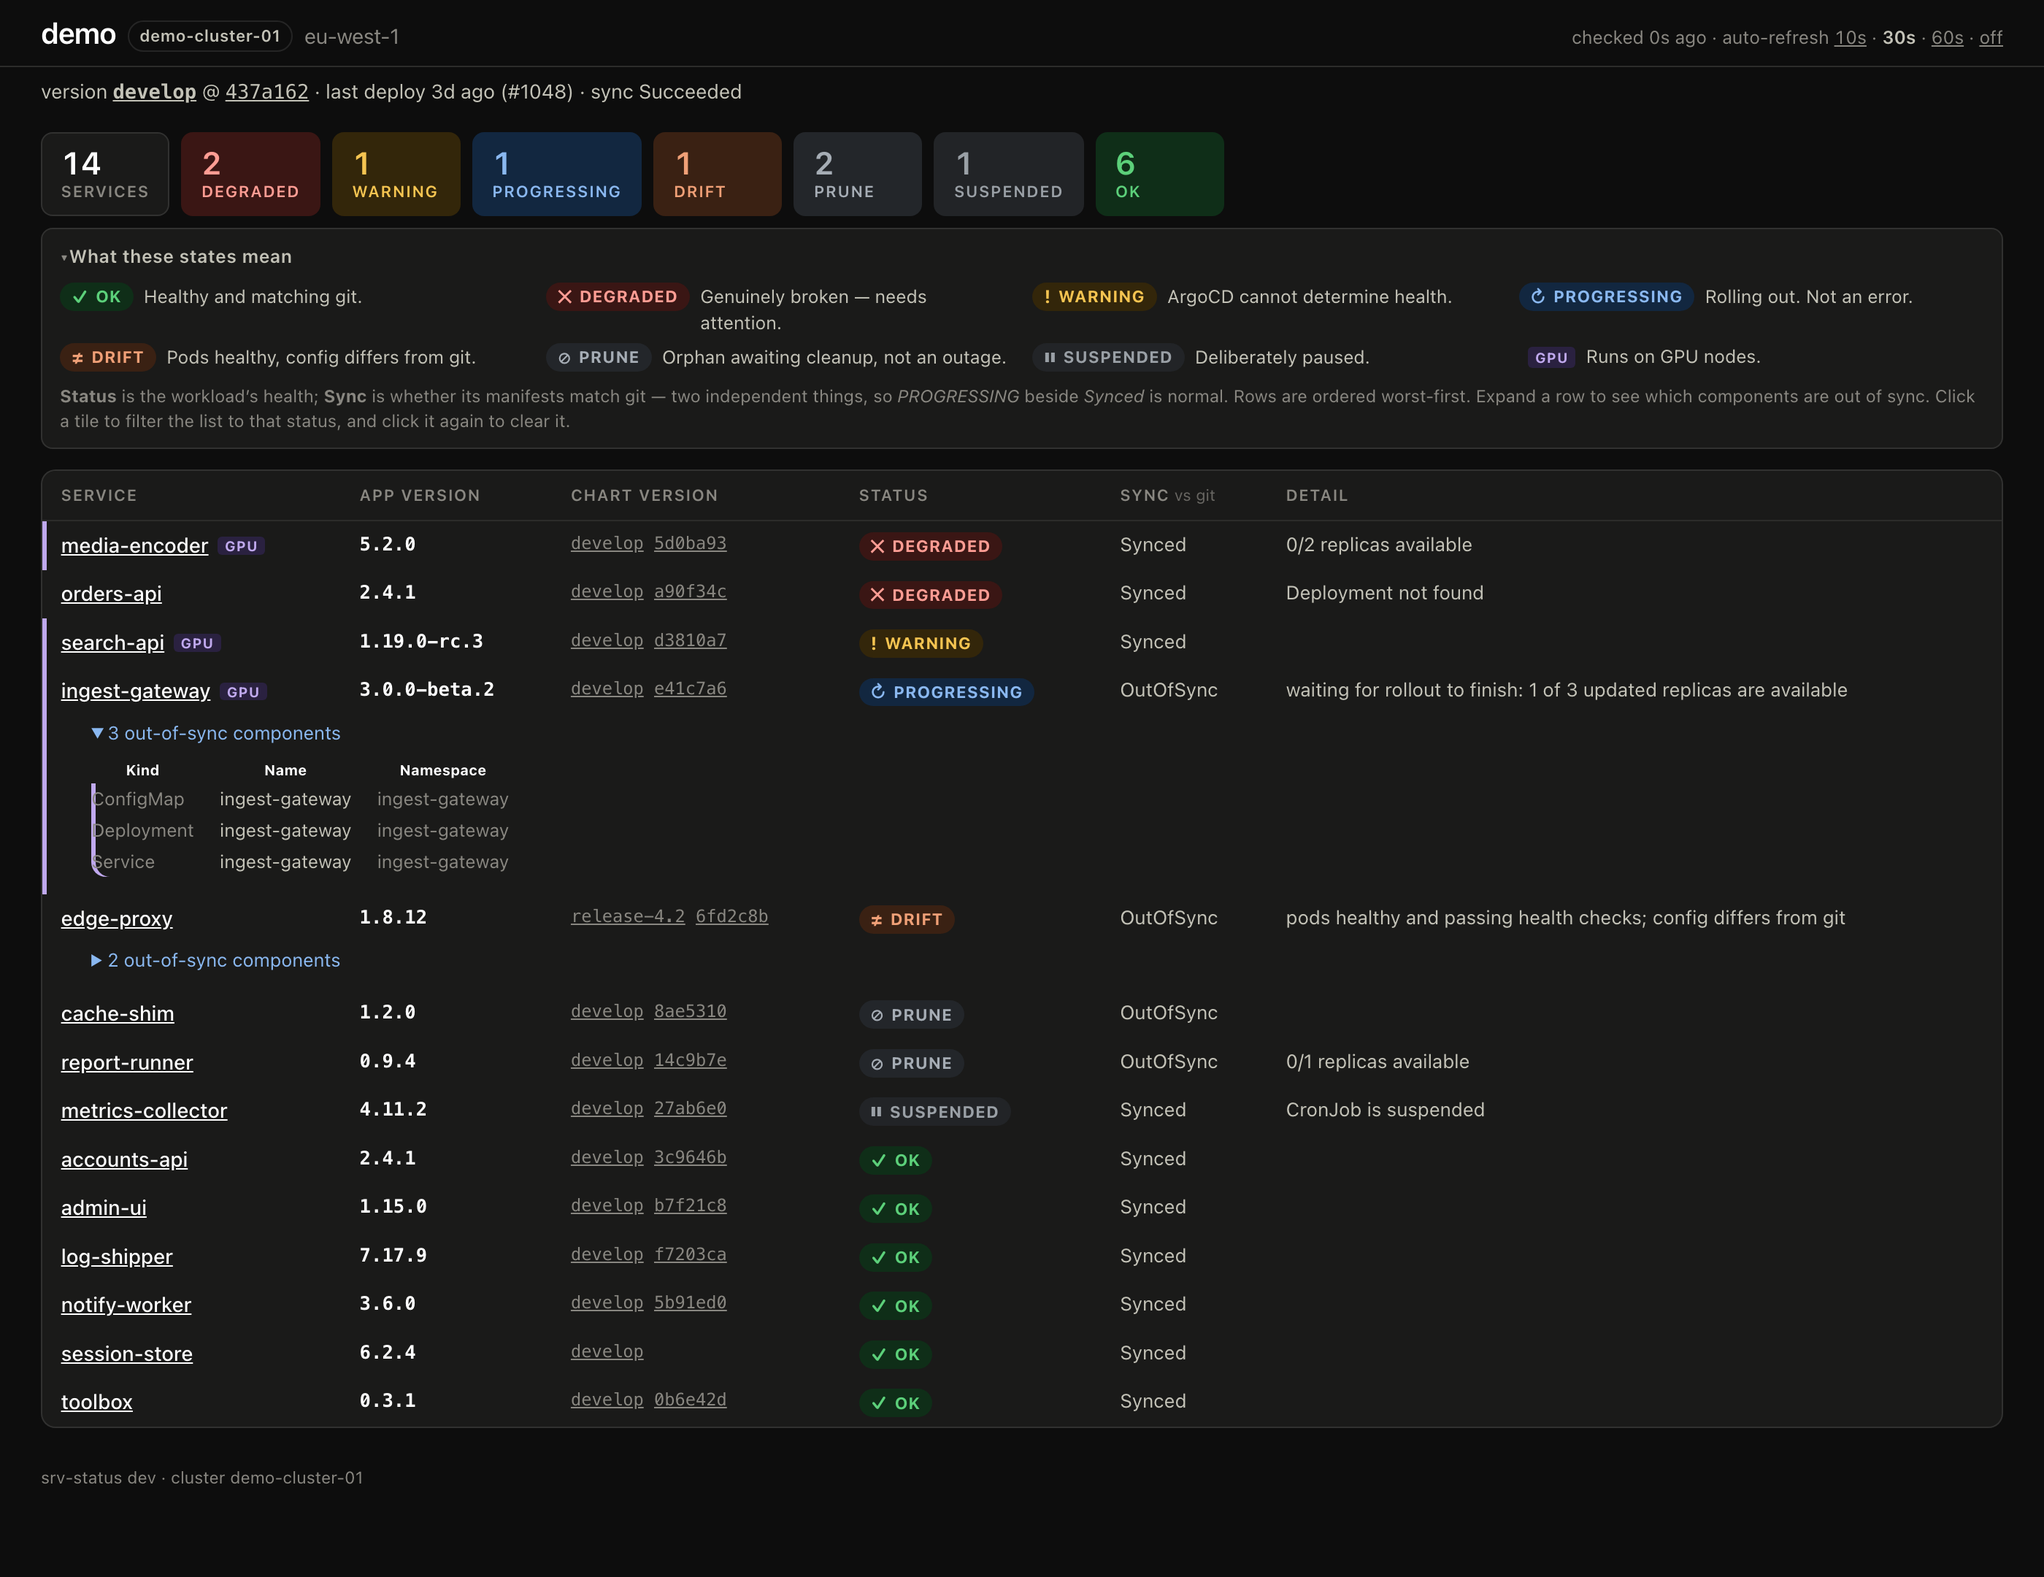
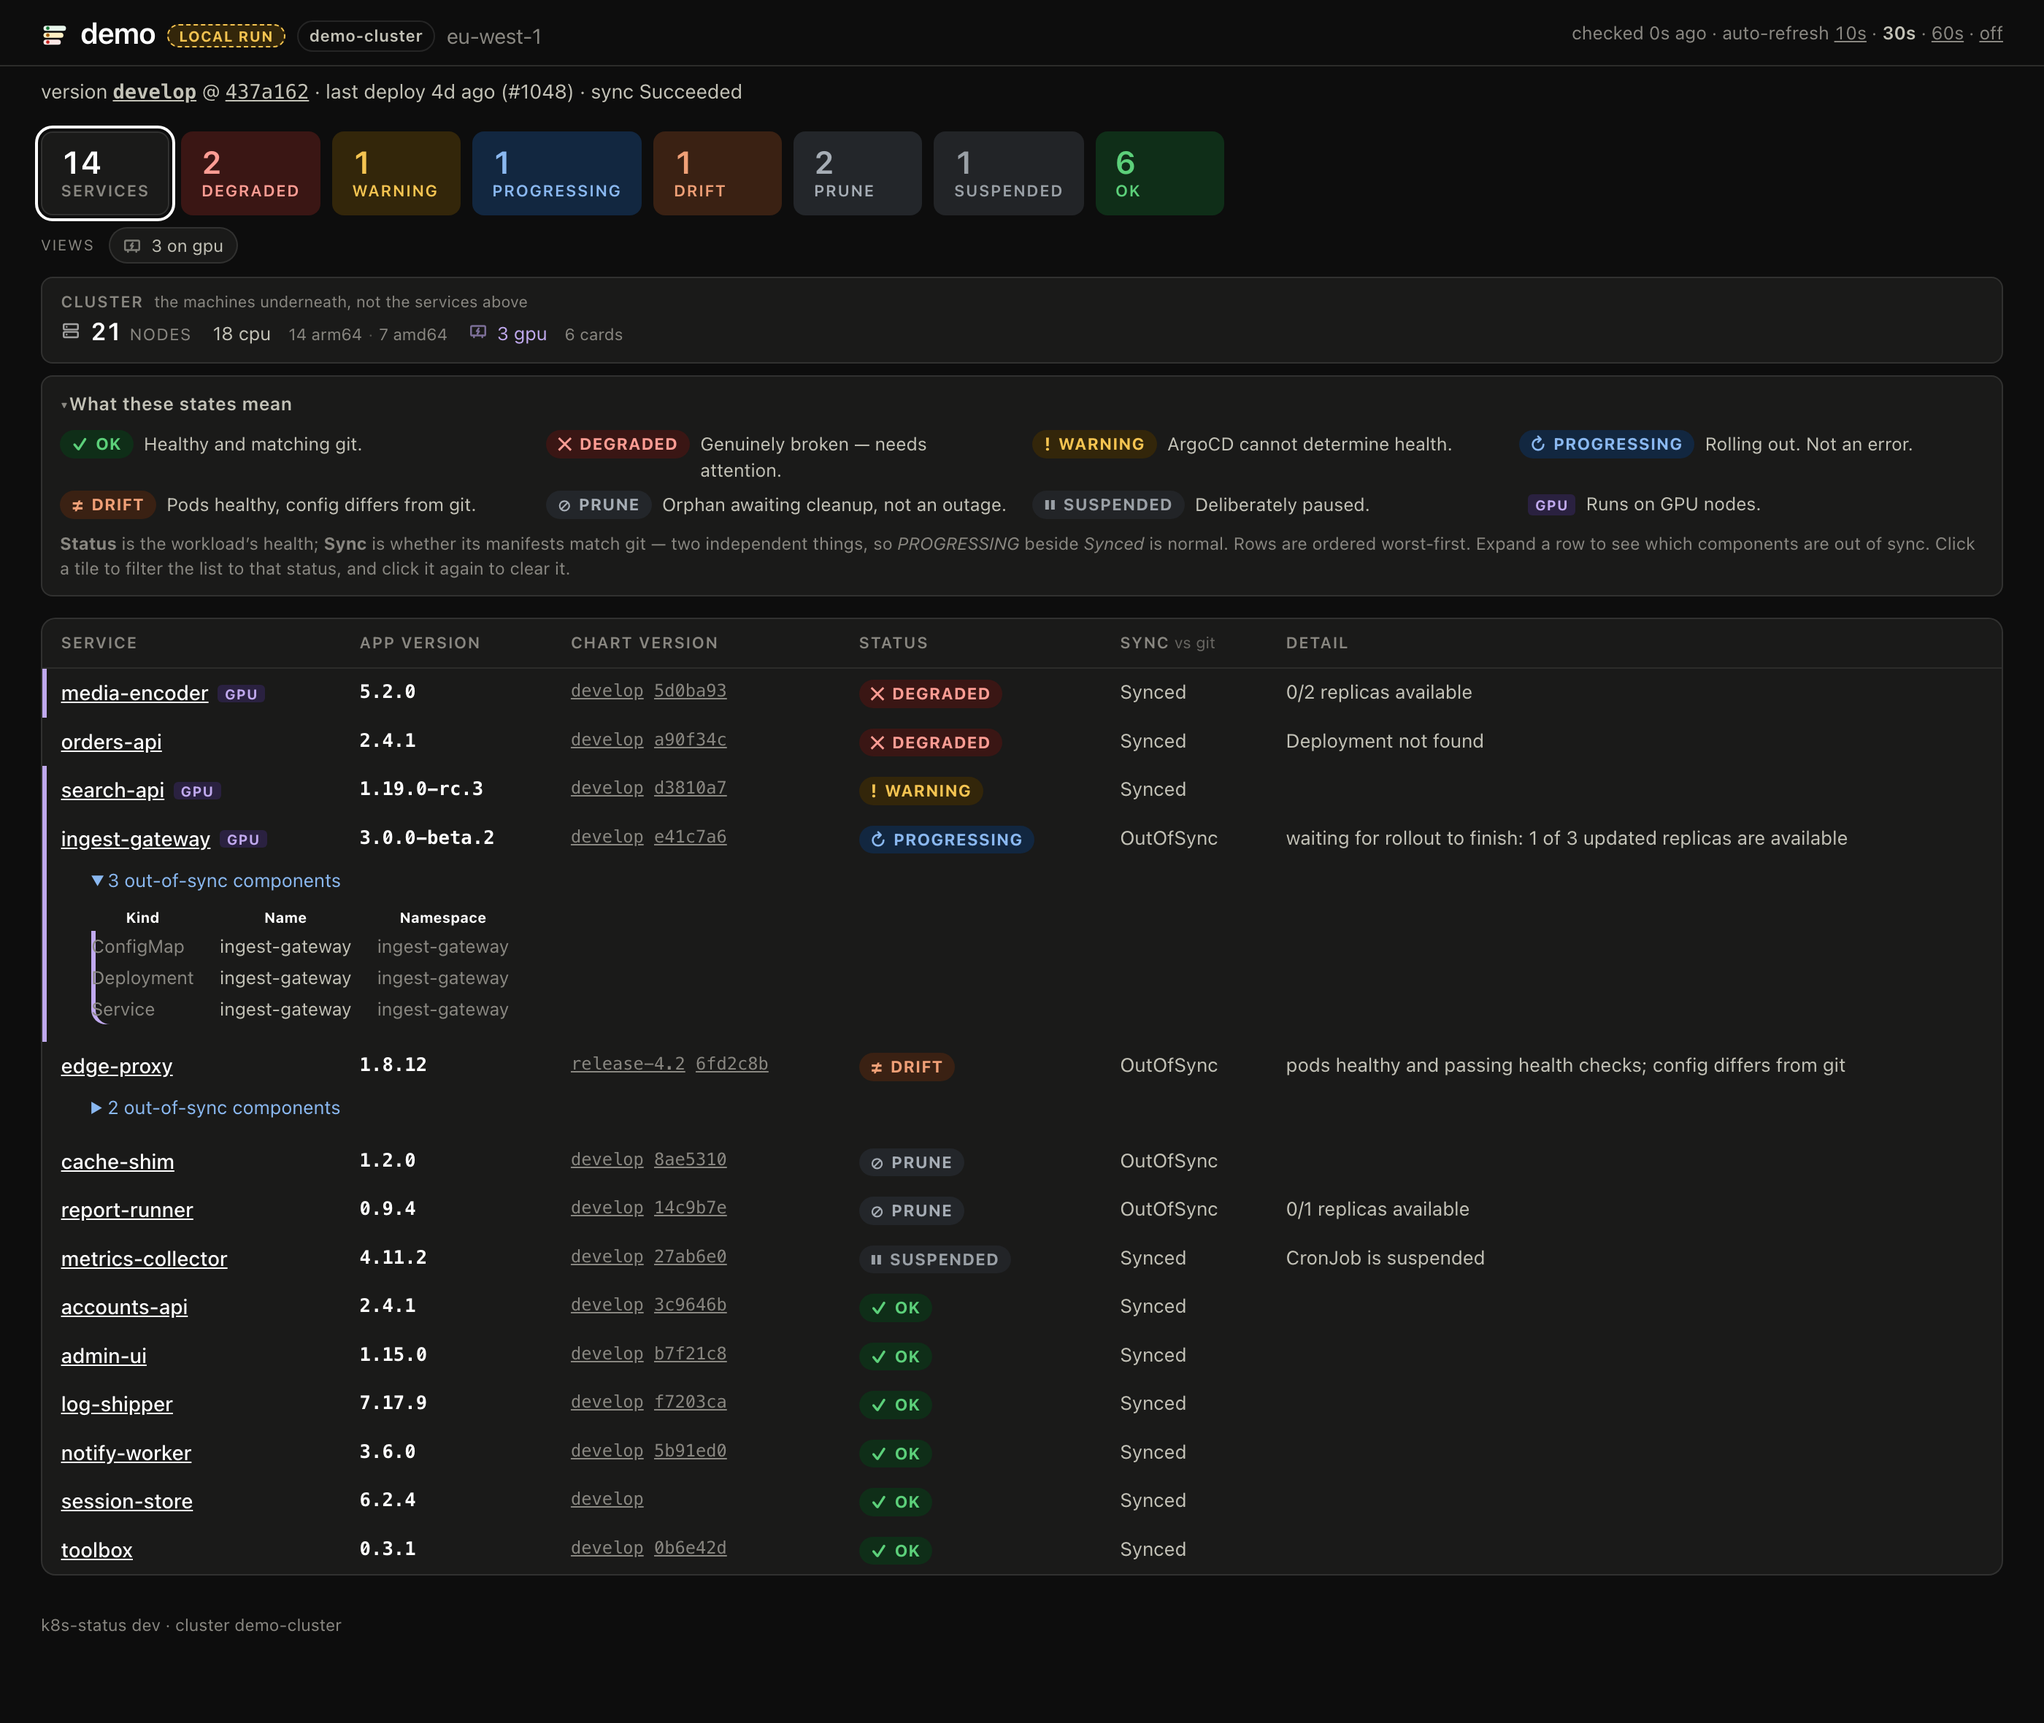
feat: add /api/versions, govulncheck scanning, and refreshed screenshots
Also documents running locally as a first-class alternative to installing, and
hides the cluster section when node stats are off instead of rendering an empty box.

diff --git a/internal/web/templates/index.html b/internal/web/templates/index.html
@@ -264,7 +264,7 @@ footer { margin-top: 1.6rem; color: var(--muted); font-size: .72rem; }
 <body>
 <header>
   <h1>{{brand}}{{.EnvName}}{{if .LocalMode}}<span class="runmode" title="Running outside the cluster against a proxied API. Permissions here are your kubeconfig's, not the ServiceAccount a deployed instance is limited to.">local run</span>{{end}}
-    {{- if .ClusterName}}<span class="badge" title="{{if .EnvType}}{{.EnvType}} environment{{else}}cluster{{end}}">{{.ClusterName}}</span>
+    {{- if and .ClusterName (ne .ClusterName .EnvName)}}<span class="badge" title="{{if .EnvType}}{{.EnvType}} environment{{else}}cluster{{end}}">{{.ClusterName}}</span>
     {{- else if .EnvType}}<span class="badge">{{.EnvType}}</span>{{end}}
     {{- if .Region}}<span class="region">{{.Region}}</span>{{end}}</h1>
   <div class="meta">checked {{.AgeSeconds}}s ago &middot; auto-refresh
@@ -299,31 +299,6 @@ footer { margin-top: 1.6rem; color: var(--muted); font-size: .72rem; }
 {{if .Stale}}<div class="banner stale">data is {{.AgeSeconds}}s stale</div>{{end}}
 
 {{if .HasData}}
-<section class="capacity">
-  <div class="cap-head">Cluster<span class="cap-sub">the machines underneath, not the services above</span></div>
-  {{- with .Snapshot.Nodes}}{{if not .Error}}
-  {{/* Total first, its breakdown indented beneath: reads as "85 nodes, of which..."
-       rather than as five unrelated numbers sitting in a row. */}}
-  <div class="cap-group">
-    <div class="cap-lead">{{icon "node"}}<span class="cv">{{.Total}}</span><span class="ck">nodes</span></div>
-    <div class="cap-of">
-      <span class="cap-part">{{.CPUNodes}} cpu
-        {{- if .Arch}}<span class="cap-split">{{range $i, $a := .Arch}}{{if $i}}<i>·</i>{{end}}{{$a.Count}} {{$a.Arch}}{{end}}</span>{{end}}</span>
-      <span class="cap-part is-gpu">{{icon "gpu"}}{{.GPUNodes}} gpu
-        <span class="cap-split" title="Total GPU cards across those nodes. One node can hold several.">{{.GPUs}} cards</span></span>
-    </div>
-  </div>
-  {{- end}}{{end}}
-  {{- with .Snapshot.Nodes}}{{if .Error}}
-  <div class="cap-note">
-    {{- if .Denied}}node stats need a ClusterRole granting <span class="mono">get</span>/<span class="mono">list</span> on <span class="mono">nodes</span>; the default install is namespaced-Role-only.
-    {{- else}}node stats unavailable.{{end}} ({{.Error}})
-  </div>
-  {{- end}}{{end}}
-</section>
-{{end}}
-
-{{if .HasData}}
 {{with .Snapshot.Summary}}
 {{/* The tiles keep counting the whole cluster while a filter is on. Do not "fix" this
      to count only the filtered rows: every other tile would read 0 as soon as one filter
@@ -346,6 +321,31 @@ footer { margin-top: 1.6rem; color: var(--muted); font-size: .72rem; }
   <a class="vchip{{if $.FilterActive "view" "unmanaged"}} is-on{{end}}" href="{{$.FilterHref "view" "unmanaged"}}" title="Running in the cluster but outside GitOps">{{icon "unmanaged"}}{{.Count}} not in gitops</a>
   {{- end}}
 </div>
+
+{{if and $.HasData $.Snapshot.Nodes}}
+<section class="capacity">
+  <div class="cap-head">Cluster<span class="cap-sub">the machines underneath, not the services above</span></div>
+  {{- with $.Snapshot.Nodes}}{{if not .Error}}
+  {{/* Total first, its breakdown indented beneath: reads as "85 nodes, of which..."
+       rather than as five unrelated numbers sitting in a row. */}}
+  <div class="cap-group">
+    <div class="cap-lead">{{icon "node"}}<span class="cv">{{.Total}}</span><span class="ck">nodes</span></div>
+    <div class="cap-of">
+      <span class="cap-part">{{.CPUNodes}} cpu
+        {{- if .Arch}}<span class="cap-split">{{range $i, $a := .Arch}}{{if $i}}<i>·</i>{{end}}{{$a.Count}} {{$a.Arch}}{{end}}</span>{{end}}</span>
+      <span class="cap-part is-gpu">{{icon "gpu"}}{{.GPUNodes}} gpu
+        <span class="cap-split" title="Total GPU cards across those nodes. One node can hold several.">{{.GPUs}} cards</span></span>
+    </div>
+  </div>
+  {{- end}}{{end}}
+  {{- with $.Snapshot.Nodes}}{{if .Error}}
+  <div class="cap-note">
+    {{- if .Denied}}node stats need a ClusterRole granting <span class="mono">get</span>/<span class="mono">list</span> on <span class="mono">nodes</span>; the default install is namespaced-Role-only.
+    {{- else}}node stats unavailable.{{end}} ({{.Error}})
+  </div>
+  {{- end}}{{end}}
+</section>
+{{end}}
 
 <details class="legend">
   <summary>What these states mean</summary>

diff --git a/internal/web/versions_test.go b/internal/web/versions_test.go
@@ -1,0 +1,98 @@
+package web
+
+import (
+	"encoding/json"
+	"errors"
+	"net/http"
+	"testing"
+)
+
+type versionsPayload struct {
+	Env      string `json:"env"`
+	Count    int    `json:"count"`
+	Error    *string
+	Services []struct {
+		Name         string `json:"name"`
+		AppVersion   string `json:"appVersion"`
+		ChartVersion string `json:"chartVersion"`
+		Source       string `json:"source"`
+		State        string `json:"state"`
+	} `json:"services"`
+	Filters *struct {
+		Status  []string `json:"status"`
+		Matched int      `json:"matched"`
+	} `json:"filters"`
+}
+
+func getVersions(t *testing.T, h http.Handler, path string) versionsPayload {
+	t.Helper()
+	rec := get(t, h, path)
+	if rec.Code != http.StatusOK {
+		t.Fatalf("status = %d, want 200", rec.Code)
+	}
+	var p versionsPayload
+	if err := json.Unmarshal(rec.Body.Bytes(), &p); err != nil {
+		t.Fatalf("decode: %v", err)
+	}
+	return p
+}
+
+func TestVersionsEndpoint(t *testing.T) {
+	h := newTestServer(t, Config{BasePath: "/k8s-status", EnvName: "sample-dev"},
+		fakeProvider{snap: fixtureSnapshot(t)})
+
+	p := getVersions(t, h, "/k8s-status/api/versions")
+	if p.Env != "sample-dev" {
+		t.Errorf("env = %q", p.Env)
+	}
+	if p.Count == 0 || p.Count != len(p.Services) {
+		t.Fatalf("count = %d, services = %d", p.Count, len(p.Services))
+	}
+	var withApp int
+	for _, s := range p.Services {
+		if s.Name == "" {
+			t.Error("every row needs a name")
+		}
+		if s.AppVersion != "" {
+			withApp++
+		}
+	}
+	if withApp == 0 {
+		t.Error("want at least one appVersion; that is the point of the endpoint")
+	}
+}
+
+func TestVersionsHonoursFilters(t *testing.T) {
+	h := newTestServer(t, Config{BasePath: "/k8s-status"}, fakeProvider{snap: fixtureSnapshot(t)})
+
+	all := getVersions(t, h, "/k8s-status/api/versions")
+	deg := getVersions(t, h, "/k8s-status/api/versions?status=DEGRADED")
+
+	if deg.Count >= all.Count {
+		t.Errorf("filtered count %d should be smaller than %d", deg.Count, all.Count)
+	}
+	for _, s := range deg.Services {
+		if s.State != "DEGRADED" {
+			t.Errorf("%s has state %q under ?status=DEGRADED", s.Name, s.State)
+		}
+	}
+	if deg.Filters == nil || deg.Filters.Matched != deg.Count {
+		t.Error("the response should echo the filter it applied")
+	}
+	if all.Filters != nil {
+		t.Error("no filter means no filters block")
+	}
+}
+
+func TestVersionsStillAnswersWhenClusterReadFails(t *testing.T) {
+	h := newTestServer(t, Config{BasePath: "/k8s-status"},
+		fakeProvider{err: errors.New("connection refused")})
+
+	p := getVersions(t, h, "/k8s-status/api/versions")
+	if p.Error == nil {
+		t.Error("want the error reported in the payload, not a 500")
+	}
+	if p.Count != 0 || len(p.Services) != 0 {
+		t.Error("want an empty service list on failure")
+	}
+}

diff --git a/internal/web/versions.go b/internal/web/versions.go
@@ -1,0 +1,81 @@
+package web
+
+import (
+	"encoding/json"
+	"net/http"
+	"time"
+)
+
+// versionsResponse is a deliberately narrow view: what is deployed, and at what
+// version. /api/status carries the same facts plus health, counts and components,
+// which is more than you want when the question is only "what version is where".
+type versionsResponse struct {
+	Env       string           `json:"env,omitempty"`
+	Cluster   string           `json:"cluster,omitempty"`
+	CheckedAt string           `json:"checkedAt,omitempty"`
+	Count     int              `json:"count"`
+	Filters   *filtersJSON     `json:"filters,omitempty"`
+	Services  []serviceVersion `json:"services"`
+	Error     *string          `json:"error"`
+}
+
+type serviceVersion struct {
+	Name string `json:"name"`
+	// AppVersion is the running container image tag: the version of the software.
+	AppVersion string `json:"appVersion,omitempty"`
+	// ChartVersion is the git ref the GitOps controller tracks for it.
+	ChartVersion string `json:"chartVersion,omitempty"`
+	Revision     string `json:"revision,omitempty"`
+	Image        string `json:"image,omitempty"`
+	Source       string `json:"source,omitempty"`
+	State        string `json:"state,omitempty"`
+}
+
+// handleVersions answers "what is deployed here and at what version" in a form
+// that is pleasant to diff between clusters or feed to a script. It honours the
+// same filters as the page, so ?status=DEGRADED narrows it the same way.
+func (s *Server) handleVersions(w http.ResponseWriter, r *http.Request) {
+	snap, err := s.provider.Get(r.Context())
+	filter := ParseFilter(r.URL.Query())
+
+	out := versionsResponse{
+		Env:      s.cfg.EnvName,
+		Cluster:  s.cfg.ClusterName,
+		Services: []serviceVersion{},
+	}
+	if err != nil {
+		msg := truncate(err.Error(), 200)
+		out.Error = &msg
+	}
+	if snap != nil {
+		if !snap.CheckedAt.IsZero() {
+			out.CheckedAt = snap.CheckedAt.UTC().Format(time.RFC3339)
+		}
+		for _, svc := range filter.Apply(snap.Services) {
+			out.Services = append(out.Services, serviceVersion{
+				Name:         svc.Name,
+				AppVersion:   svc.AppVersion,
+				ChartVersion: svc.Version,
+				Revision:     svc.Revision,
+				Image:        svc.Image,
+				Source:       string(svc.Source),
+				State:        string(svc.State),
+			})
+		}
+	}
+	out.Count = len(out.Services)
+	if filter.Active() {
+		out.Filters = &filtersJSON{
+			Status:  filter.Status,
+			Sync:    filter.Sync,
+			GPU:     filter.GPU,
+			Matched: out.Count,
+		}
+	}
+
+	w.Header().Set("Content-Type", "application/json; charset=utf-8")
+	w.Header().Set("Cache-Control", "no-store")
+	if encErr := json.NewEncoder(w).Encode(out); encErr != nil {
+		return
+	}
+}

diff --git a/internal/web/handlers.go b/internal/web/handlers.go
@@ -66,6 +66,7 @@ func (s *Server) Routes() *http.ServeMux {
 
 	mux.HandleFunc("GET "+base+"/{$}", s.handlePage)
 	mux.HandleFunc("GET "+base+"/api/status", s.handleAPI)
+	mux.HandleFunc("GET "+base+"/api/versions", s.handleVersions)
 	mux.HandleFunc("GET "+base+"/healthz", s.handleHealthz)
 
 	if base != "" {

diff --git a/README.md b/README.md
@@ -16,8 +16,21 @@
 One web page that tells you what is running in a Kubernetes cluster, which version of it,
 and whether it is healthy. Read-only: it can list, and nothing else.
 
-It runs inside the cluster and reads that cluster only. It makes no outbound calls. There
-is no JavaScript and no database. You open a URL and read a table.
+It reads one cluster and nothing else. It makes no outbound calls. There is no
+JavaScript and no database. You open a URL and read a table.
+
+**You do not have to install it.** It is a single binary, so if you would rather not put
+anything in the cluster, run it on your own machine against a cluster you can already
+read:
+
+```console
+$ ./scripts/local-test.sh cluster <your-kube-context>
+```
+
+That uses your kubeconfig, changes nothing, and installs nothing. It is the fastest way
+to decide whether the tool is worth deploying, and it is a reasonable permanent answer
+for a cluster you only look at occasionally. Deploy it when you want the page to be
+there for everyone, on a URL, without anyone needing cluster access.
 
 The page itself has no login, so it is built to sit behind a VPN or an internal load
 balancer. See [Security](#security).
@@ -414,6 +427,31 @@ they counted only the filtered rows, clicking `DEGRADED` would make every other 
 
 `/healthz` ignores all of it.
 
+### Getting versions as JSON
+
+`GET <base>/api/versions` answers one question: what is deployed here, and at what version.
+
+```console
+$ curl -s http://localhost:8080/k8s-status/api/versions | jq '.services[0]'
+{
+  "name": "alerting-api",
+  "appVersion": "1.0.0-dev-3cdb4337",
+  "chartVersion": "develop",
+  "revision": "c335d820...",
+  "image": "registry.example.com/alerting-api:1.0.0-dev-3cdb4337",
+  "source": "argocd",
+  "state": "OK"
+}
+```
+
+`appVersion` is the running container image tag, the version of the software itself.
+`chartVersion` is the git ref the GitOps controller tracks for it. They are different
+things and the endpoint reports both.
+
+It takes the same filters as the page, so `?status=DEGRADED` or `?gpu=true` narrows it.
+`/api/status` returns the same facts plus health, counts and components, if you want
+everything in one call.
+
 ## Settings
 
 Everything is read from environment variables at startup. Every one has a default, so you
@@ -721,6 +759,27 @@ secrets, environment variables, pod logs, or the ServiceAccount token.
 
 Everything it does is read-only. It cannot change anything in the cluster, because the
 permissions it holds are only `get` and `list`.
+
+## What CI scans
+
+Every push and pull request runs these. The first four fail the build, so a problem
+cannot merge quietly.
+
+| What is checked | Tool | Fails the build |
+|---|---|---|
+| Go source and toolchain for known vulnerabilities | `govulncheck` | Yes |
+| The built image for vulnerable packages | Trivy, HIGH and CRITICAL, fixable only | Yes |
+| The repository for committed secrets | Trivy, secret scanner | Yes |
+| The image against the CIS Docker Benchmark | Dockle, at `fatal` | Yes |
+| Supply-chain posture: pinned actions, branch protection, signed releases | OpenSSF Scorecard | No, publishes to the Security tab |
+
+`govulncheck` and Trivy overlap deliberately and catch different things. Trivy inspects
+the finished image, so it sees whatever ended up inside it. `govulncheck` reads the
+source and the Go toolchain, and only reports vulnerabilities in code paths that are
+actually reachable, so it finds problems earlier and with less noise.
+
+Unfixable findings are reported but do not block, because there is nothing to upgrade
+to. That keeps a red build meaningful.
 
 ## Container hardening
 
